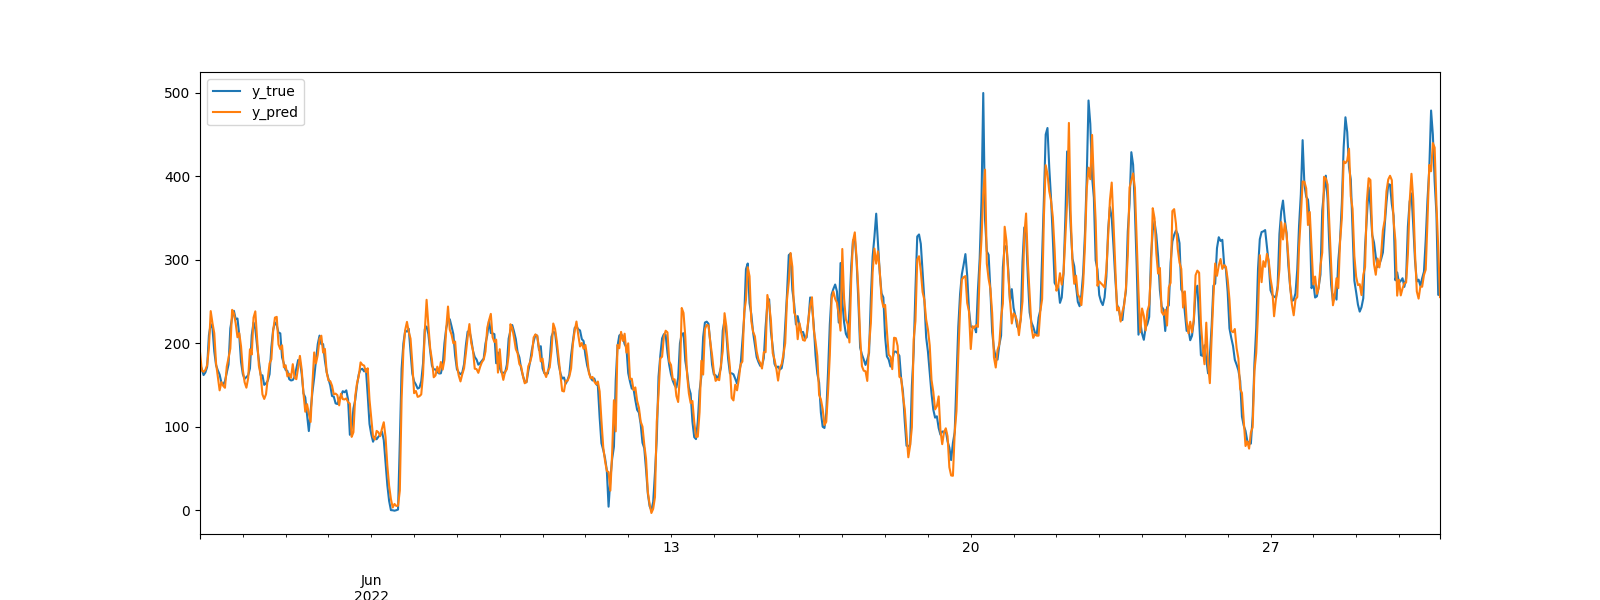
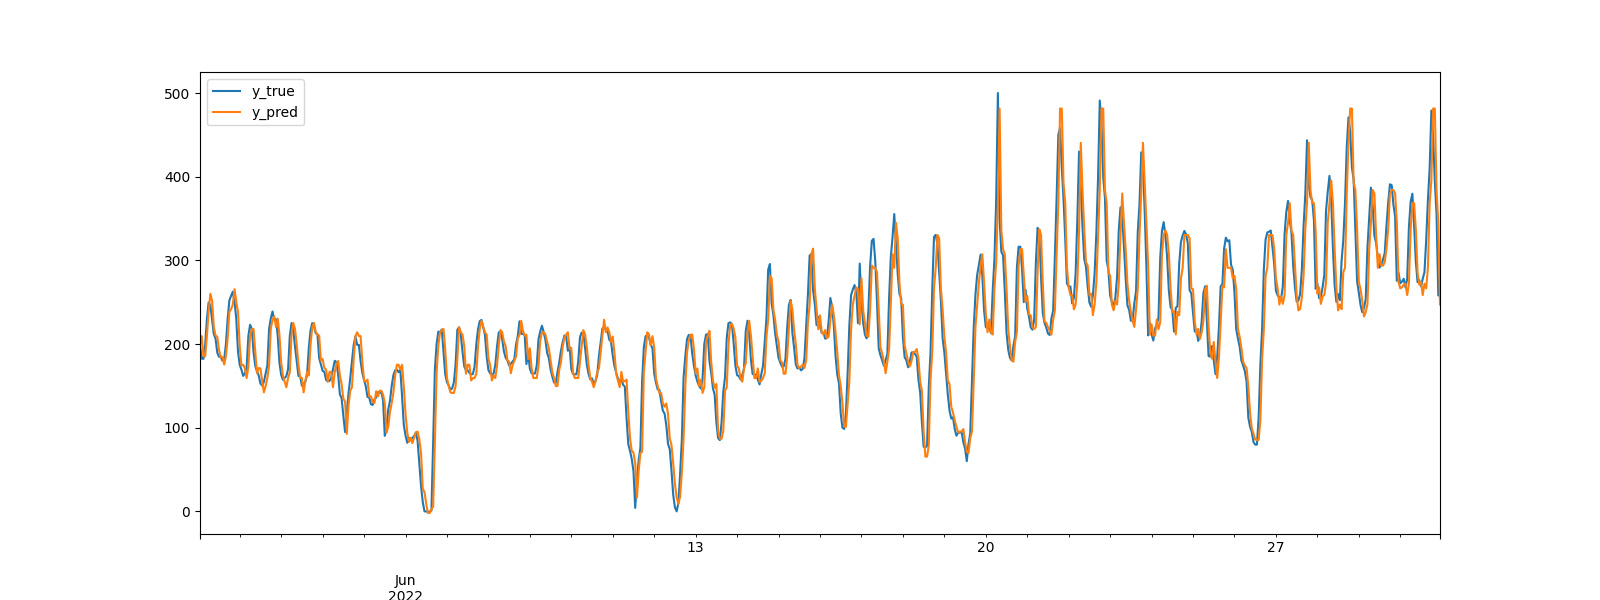
disable features and update overview table results

diff --git a/tree_forecasting.py b/tree_forecasting.py
@@ -11,10 +11,10 @@ import itertools
 import numpy as np
 import pandas as pd
 import matplotlib.pyplot as plt
-from sklearn.model_selection import TimeSeriesSplit
 from sklearn.metrics import mean_absolute_error, mean_squared_error
 from sklearn.preprocessing import StandardScaler
 from xgboost import XGBRegressor
+import xgboost as xgb
 
 
 ###############################################
@@ -69,16 +69,16 @@ if DO_EXTEND_FEATURES:
     # add time features
     clean_df['hour'] = clean_df['ds'].dt.hour
     clean_df['dayofweek'] = clean_df['ds'].dt.dayofweek
-    clean_df['is_weekend'] = clean_df['dayofweek'].isin([5, 6]).astype(int)
-    clean_df['sin_hour'] = np.sin(2 * np.pi * clean_df['hour'] / 24)
-    clean_df['cos_hour'] = np.cos(2 * np.pi * clean_df['hour'] / 24)
+    # clean_df['is_weekend'] = clean_df['dayofweek'].isin([5, 6]).astype(int)
+    # clean_df['sin_hour'] = np.sin(2 * np.pi * clean_df['hour'] / 24)
+    # clean_df['cos_hour'] = np.cos(2 * np.pi * clean_df['hour'] / 24)
     # add leg and rolling features
     clean_df['lag1'] = clean_df['y'].shift(1)
-    clean_df['lag24'] = clean_df['y'].shift(24)
-    clean_df['rolling_mean_24'] = clean_df['y'].rolling(24).mean()
-    clean_df['rolling_std_24'] = clean_df['y'].rolling(24).std()
+    # clean_df['lag24'] = clean_df['y'].shift(24)
+    # clean_df['rolling_mean_24'] = clean_df['y'].rolling(24).mean()
+    # clean_df['rolling_std_24'] = clean_df['y'].rolling(24).std()
     clean_df['diff1'] = clean_df['y'].diff(1)                           # difference to previous hour
-    clean_df['diff24'] = clean_df['y'].diff(24)                         # difference to previous day
+    # clean_df['diff24'] = clean_df['y'].diff(24)                         # difference to previous day
     # reset index and fill empty (NOTE improve by copy Y to nan's instead of zero)
     clean_df = clean_df.fillna(0)
     clean_df = clean_df.set_index('ds')
@@ -99,17 +99,6 @@ test_df = clean_df.loc[clean_df.index >= '2022-06-01 00:00:00']
 
 n_test_samples = test_df.shape[0]
 print('# test samples:', n_test_samples)
-
-
-#### alternative sk build in series cv split
-# ts_cv = TimeSeriesSplit(
-#     n_splits=2,
-#     gap=24,
-#     # max_train_size=10000,
-#     test_size=n_test_samples,
-# )
-# all_splits = list(ts_cv.split(clean_df['y'].values, clean_df['y_target'].values))
-# print(all_splits[0], all_splits[1])
 
 
 ############## preprocessing
@@ -151,18 +140,6 @@ X_test = np.array([sa[:-1] for sa in XY_test])
 Y_test = np.array([sa[-1] for sa in XY_test])
 
 
-# # NOTE data augmentation
-# from tsaug import TimeWarp, Crop, Quantize, Drift, Reverse
-# my_aug = (
-#     TimeWarp() * 5 
-#     + Crop(size=300)
-#     + Quantize(n_levels=[10, 20, 30])
-#     + Drift(max_drift=(0.1, 0.5)) @ 0.8 
-#     + Reverse() @ 0.5 
-# )
-# X_aug, Y_aug = my_aug.augment(np.array(clean_df['y']), np.array(clean_df['y_target']))
-
-
 # standardization
 scaler = StandardScaler()
 X_train = scaler.fit_transform(X_train)
@@ -174,12 +151,26 @@ xgb_clf.max_depth = 5
 xgb_clf.fit(X_train, Y_train)
 
 
+# #### plot feature importance for trained model
+# ax = xgb.plot_importance(xgb_clf, importance_type='gain', max_num_features=15)
+# plt.title("Top Feature Importances (Gain)")
+# fig = ax.get_figure()
+# fig.savefig(f'./feature_importance.png')
+
+# # feature selection
+# from sklearn.feature_selection import SelectFromModel
+# selector = SelectFromModel(xgb_clf, threshold="mean", prefit=True)
+# X_selected = selector.transform(X_train)
+# print("Verbliebene Features:", pd.DataFrame(X_train).columns[selector.get_support()])
+
+
 ###############################
-# Evaluation
-# settings
+## settings
 print('Prediction horizon:', N_STEPS_PRED_HORIZON, 'hours')
+print('Sample length:', N_STEPS_SAMPLE_LEN, 'hours')
 print('Artifical features:', DO_EXTEND_FEATURES)
 # print('Model scores:', xgb_clf.get_booster().get_score())
+## Evaluation
 # predict on test set
 y_pred = xgb_clf.predict(X_test)
 # MAE
@@ -189,7 +180,7 @@ print(f"MAE: {mae:.2f}")
 rmse = np.sqrt(mean_squared_error(Y_test, y_pred))
 print(f"RMSE: {rmse:.2f}")
 
-##### plot predictions (y_pred) over true data (y_true)
+## Plot predictions (y_pred) over true data (y_true)
 eval_df = pd.DataFrame.from_dict({'y_true':Y_test, 'y_pred':y_pred, 'day':test_df.index[N_STEPS_SAMPLE_LEN*n_features:]})
 ax = eval_df.plot(x='day', y=['y_true', 'y_pred'], kind='line', figsize=(16, 6))
 fig = ax.get_figure()

diff --git a/README.md b/README.md
@@ -7,14 +7,20 @@ Time series public market auction price forecasting. Comparing different predict
 
 #### Results overview
 
-|   Model  |  Horizon  | Art. Feat |  Period  |   Horizon |    MAE   |   RMSE   |
-| -------- | --------- | --------- | -------- | --------- | -------- | -------- |
-|  Prohpet |  Next hour|    No     |     1    |     1     |   47.66  |    61.33 |
-|  Prohpet |  Next day |    No     |     24   |     24    |   50.09  |   64.45  |
-|  XGBoost |  Next hour|    No     |     1    |     1     |  ![15.27](https://img.shields.io/badge/15.27-brightgreen)  | ![21.01](https://img.shields.io/badge/21.01-brightgreen) |
-|  XGBoost |  Next day |    No     |     24   |     24    |  ![46.24](https://img.shields.io/badge/46.24-purple)  | ![62.84](https://img.shields.io/badge/62.84-purple) |
-|  XGBoost |  Next hour|    yes    |     1    |     1     |   17.31  |    24.25 |
-|  XGBoost |  Next day |    yes    |     24   |     24    |   55.49  |    69.56 |
+|   Model  | Art. Feat |  Period  |   Horizon |    MAE   |   RMSE   |
+| -------- | --------- | -------- | --------- | -------- | -------- |
+|  Prohpet |    No     |     1    |     1     |   47.66  |    61.33 |
+|  Prohpet |    No     |     24   |     24    |   50.09  |   64.45  |
+|  XGBoost |    No     |     1    |     1     |   21.08  |  29.37   |
+|  XGBoost |    No     |     24   |     24    |   ![46.24](https://img.shields.io/badge/46.24-purple)  | ![62.84](https://img.shields.io/badge/62.84-purple) |
+|  XGBoost |    yes    |     1    |     1     |   17.21  |    25.54 |
+|  XGBoost |    yes    |     6    |     1     |   ![14.87](https://img.shields.io/badge/14.87-brightgreen)  |    ![20.81](https://img.shields.io/badge/20.81-brightgreen) |
+|  XGBoost |    yes    |     12   |     1     |   15.59  |    21.73 |
+|  XGBoost |    yes    |     24   |     1     |   16.65  |    23.35 |
+|  XGBoost |    yes    |     1    |     24    |   46.32  |    63.47 |
+|  XGBoost |    yes    |     6    |     24    |   47.19  |    64.21 |
+|  XGBoost |    yes    |     12   |     24    |   51.25  |    64.98 |
+|  XGBoost |    yes    |     24   |     24    |   49.48  |    65.98 |
 
 
 ### Quick start 
@@ -127,35 +133,15 @@ _Prediction & observations for daily forecast horizon, no artifical features [Pr
 _Prediction & observations for hourly forecast horizon, no artifical features [Price in €/MWh]_
 
 __XGBoost with extended input feature dimensions__
-<!--
-__Evaluation metrics__
-
-Raw time series data only input
-
-
-| Experiment   | Pred. Period | Pred. Horizon |      MAE     |     RMSE     |
-| ------------ | ------------ | ------------- | ------------ | ------------ |
-|  Next hour   |       1      |       1       |     16.28    |     22.65    | 
-|  Next day    |       24     |       24      |     47.86    |     64.59    | -->
-
-
 ![Cross validation](./plots/16_xgboost_cross_validation_24_afTrue.png) 
 _Prediction & observations for daily forecast horizon, artifical features added [Price in €/MWh]_
 
 ![Cross validation](./plots/16_xgboost_cross_validation_1_afTrue.png) 
 _Prediction & observations for hourly forecast horizon, artifical features added [Price in €/MWh]_
 
-<!--
-Adding artifical (time & leg) features
-| Experiment   | Pred. Period | Pred. Horizon |      MAE     |     RMSE     |
-| ------------ | ------------ | ------------- | ------------ | ------------ |
-|  Next hour   |       1      |       1       |     17.92    |      25.50   |
-|  Next day    |       24     |       24      |     58.43    |      73.11   |
--->
-
 
 #### Review 
-The tree based model achieves significantly smaller error metrics on the evaluation sets for the short term prediction scenario and handles non saisonale spiky patterns better. While the tree based model outperforms the prohpet model on long term predictions on a smaller distance. Data set extension adding artifical feature dimensions, doesn't contribute to the prediction accuracy in neither of the scenarios.
+The tree based model achieves significantly smaller error metrics on the evaluation sets for the short term prediction scenario and handles non saisonale spiky patterns better. While the tree based model outperforms the prohpet model on long term predictions on a smaller distance. Data set extension adding artifical feature dimensions, does only contribute benefitial to the prediction accuracy in the short horizon scenario.
 
 
 ## Optimization Strategy
